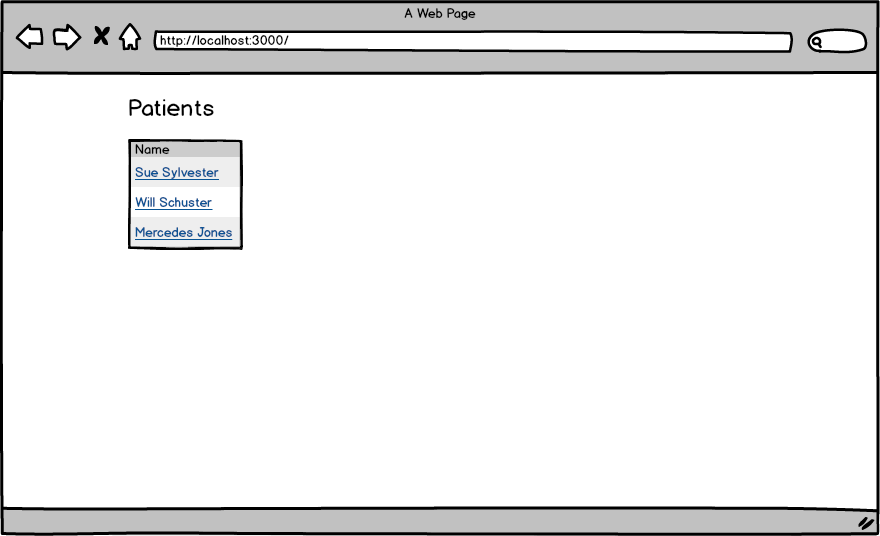
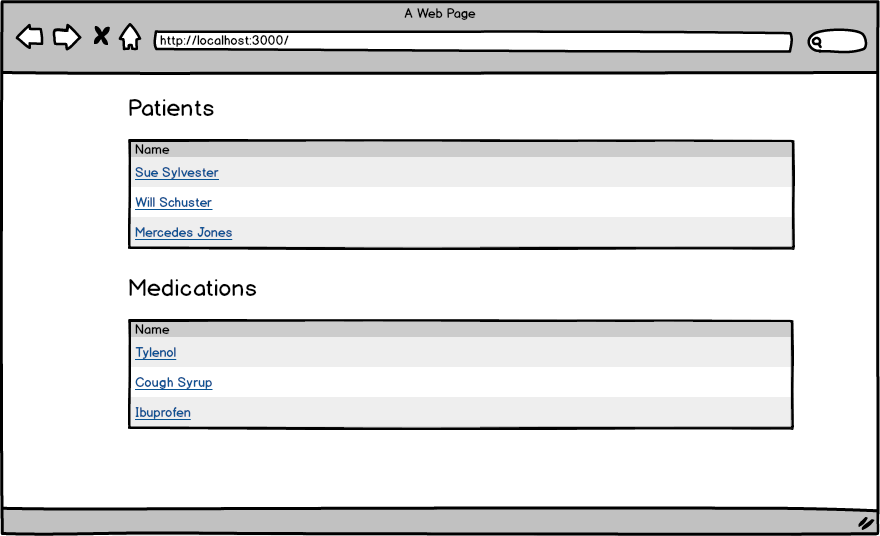
updated wireframes with better dosage and correct dashboard

diff --git a/README.md b/README.md
@@ -86,7 +86,3 @@ New prescription page w/ errors
 Medication show page
 
 <img src="project/images/05-medications-show.png" />
-
-## References
-
-* [Select Tag](http://api.rubyonrails.org/classes/ActionView/Helpers/FormBuilder.html#method-i-select)
